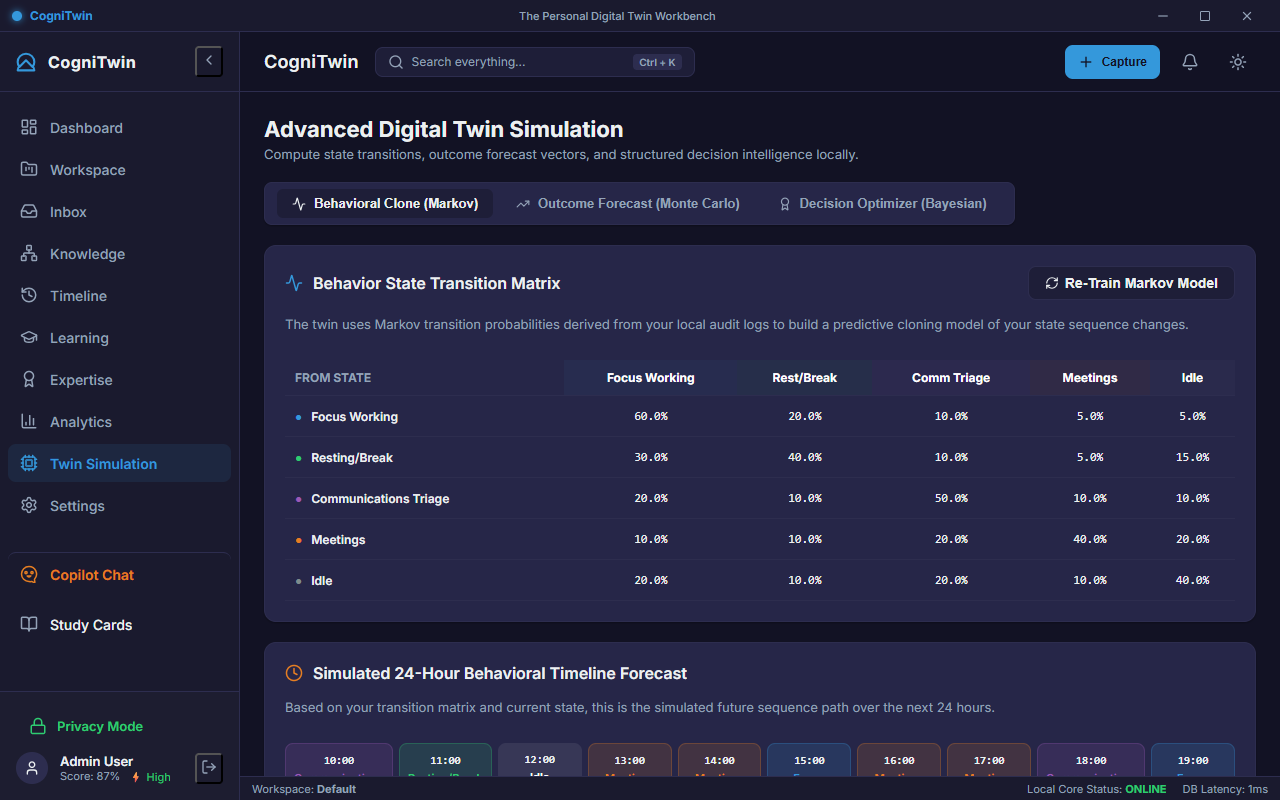
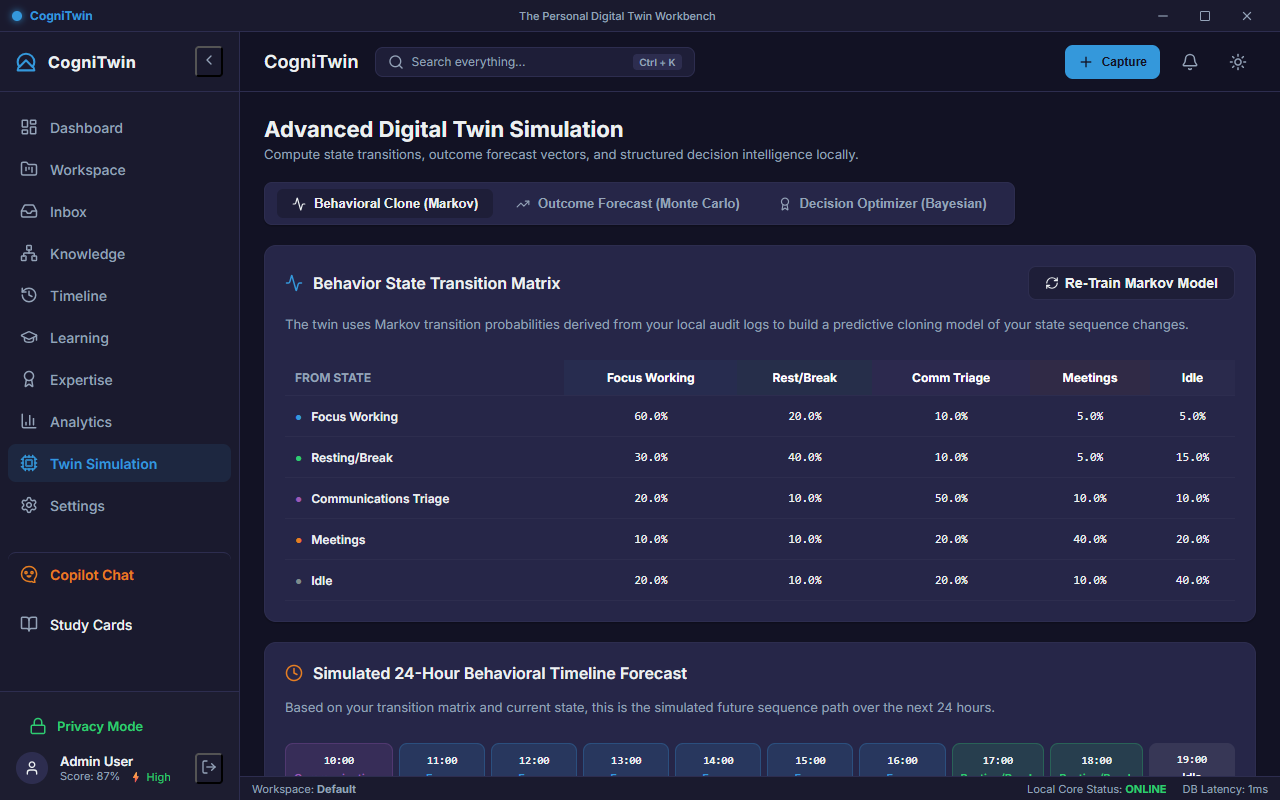
fix: force hide all modal overlays before screenshot capture to guarantee clean UI views

diff --git a/scripts/capture_real_screenshots.js b/scripts/capture_real_screenshots.js
@@ -86,6 +86,10 @@ const path = require('path');
   if (!fs.existsSync(screenshotDir)) {
     fs.mkdirSync(screenshotDir, { recursive: true });
   }
+  await page.evaluate(() => {
+    const overlays = document.querySelectorAll('.modal-overlay');
+    overlays.forEach(el => el.style.display = 'none');
+  });
   await page.screenshot({ path: path.join(screenshotDir, 'cognitwin_dashboard.png') });
 
   // Navigate to Twin Simulation
@@ -103,6 +107,10 @@ const path = require('path');
   if (clickedSim) {
     console.log('Waiting for Twin Simulation charts...');
     await new Promise(r => setTimeout(r, 5000));
+    await page.evaluate(() => {
+      const overlays = document.querySelectorAll('.modal-overlay');
+      overlays.forEach(el => el.style.display = 'none');
+    });
     await page.screenshot({ path: path.join(screenshotDir, 'cognitwin_simulation.png') });
   }
 
@@ -121,6 +129,10 @@ const path = require('path');
   if (clickedWorkspace) {
     console.log('Waiting for Workspace to render...');
     await new Promise(r => setTimeout(r, 4000));
+    await page.evaluate(() => {
+      const overlays = document.querySelectorAll('.modal-overlay');
+      overlays.forEach(el => el.style.display = 'none');
+    });
     await page.screenshot({ path: path.join(screenshotDir, 'cognitwin_workspace.png') });
   }
 